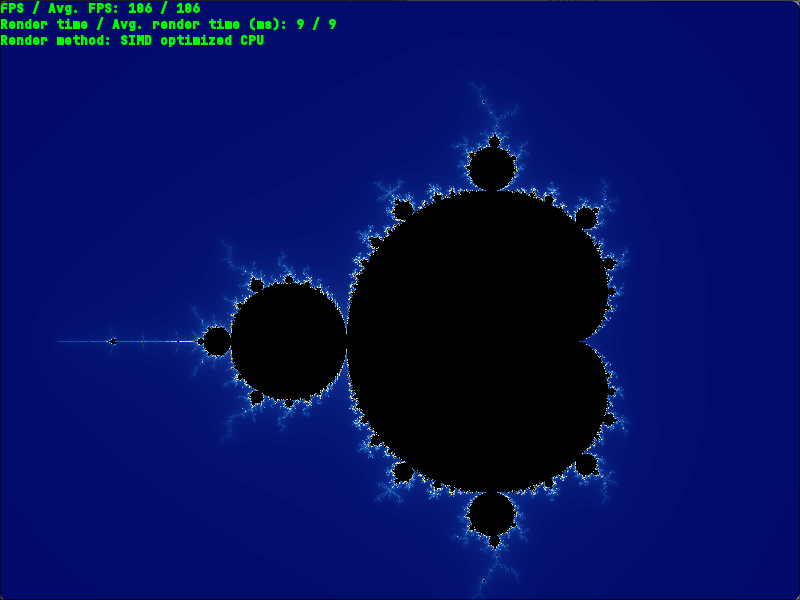
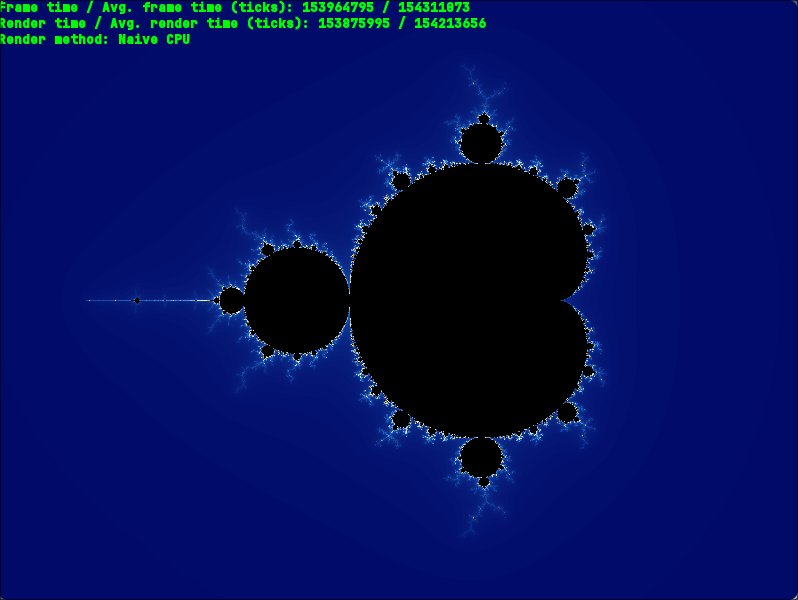
tmp readme, ProcessEvents() upd

diff --git a/src/RenderFrontends/SfmlRenderer.cpp b/src/RenderFrontends/SfmlRenderer.cpp
@@ -32,7 +32,7 @@ static ErrorCode InitShader    (sf::Shader *shader);
 static ErrorCode InitTexture   (sf::Texture *contentTexture, sf::Uint8 **texturePixels);
 static ErrorCode ProcessEvents (sf::RenderWindow *mainWindow, Camera *camera, size_t *currentBackend, size_t *currentGradient);
 
-static char *RenderStatsToString (clock_t fpsTimeValue, clock_t fpsTimeAvg, clock_t renderTimeValue, clock_t renderTimeAvg, size_t currentBackend);
+static char *RenderStatsToString (uint64_t frameTimeValue, uint64_t frameTimeAvg, uint64_t renderTimeValue, uint64_t renderTimeAvg, size_t currentBackend);
 
 #define DestroyEntities() DestroyTimers (); free (texturePixels); free (InfoTextBuffer);
 
@@ -67,11 +67,11 @@ ErrorCode SfmlRenderCycle () {
 
     size_t avgNumbers = 0;
     
-    long fpsTimeAvg         = 0;
-    long renderTimeAvg      = 0;
+    uint64_t frameTimeAvg   = 0;
+    uint64_t renderTimeAvg  = 0;
 
-    long fpsTimesSum        = 0;
-    long renderTimesSum     = 0;
+    uint64_t frameTimesSum  = 0;
+    uint64_t renderTimesSum = 0;
 
     while (mainWindow.isOpen ()) {
         StartTimer (FPS_TIMER);
@@ -83,34 +83,40 @@ ErrorCode SfmlRenderCycle () {
         
         StartTimer (RENDER_TIMER);
 
+        uint64_t renderTimeValue = 0;
+
         if (currentBackend < BACKENDS_COUNT) {
             AVAILABLE_BACKENDS [currentBackend] (texturePixels, &camera, currentGradient);
             contentTexture.update (texturePixels);
+
+            renderTimeValue = GetTimerValue (RENDER_TIMER);
+
             mainWindow.draw (contentSprite);
         } else {
             shader.setUniform ("CameraPosition", camera.position);
             shader.setUniform ("Scale", camera.scale);
             mainWindow.draw (contentSprite, &shader);
+
+            renderTimeValue = GetTimerValue (RENDER_TIMER);
         }
 
-        long renderTimeValue = GetTimerValue (RENDER_TIMER);
-        long fpsTimeValue    = GetTimerValue (FPS_TIMER);
+        uint64_t frameTimeValue = GetTimerValue (FPS_TIMER);
     
         renderTimesSum += renderTimeValue;
-        fpsTimesSum    += fpsTimeValue;
+        frameTimesSum  += frameTimeValue;
         avgNumbers++;
 
-        renderTimeAvg = renderTimesSum / (long) avgNumbers;
-        fpsTimeAvg    = fpsTimesSum    / (long) avgNumbers;
+        renderTimeAvg = renderTimesSum / (uint64_t) avgNumbers;
+        frameTimeAvg  = frameTimesSum  / (uint64_t) avgNumbers;
 
         if (avgNumbers == AVG_NUMBERS_COUNT) {
-            fprintf (stderr, "Avg. FPS: %ld\nAvg render time: %ld\n\n", 1000 / fpsTimeAvg, renderTimeAvg);
+            fprintf (stderr, "Avg. frame time (ticks): %lu\nAvg render time (ticks): %lu\n\n", frameTimeAvg, renderTimeAvg);
 
-            renderTimesSum = fpsTimesSum = 0;
+            renderTimesSum = frameTimesSum = 0;
             avgNumbers     = 0;
         }
         
-        infoText.setString (RenderStatsToString (fpsTimeValue, fpsTimeAvg, renderTimeValue, renderTimeAvg, currentBackend));
+        infoText.setString (RenderStatsToString (frameTimeValue, frameTimeAvg, renderTimeValue, renderTimeAvg, currentBackend));
         
         mainWindow.draw (infoText);
         mainWindow.display ();
@@ -121,12 +127,10 @@ ErrorCode SfmlRenderCycle () {
     return ErrorCode::NO_ERRORS;
 }
 
-static char *RenderStatsToString (clock_t fpsTimeValue, clock_t fpsTimeAvg, clock_t renderTimeValue, clock_t renderTimeAvg, size_t currentBackend) {
-    long fpsValue = fpsTimeValue > 0 ? 1000 / fpsTimeValue : 0;
-    long fpsAvg   = fpsTimeAvg   > 0 ? 1000 / fpsTimeAvg   : 0;
+static char *RenderStatsToString (uint64_t frameTimeValue, uint64_t frameTimeAvg, uint64_t renderTimeValue, uint64_t renderTimeAvg, size_t currentBackend) {
 
     snprintf (InfoTextBuffer, MAX_INFO_TEXT_LENGTH, INFO_TEXT_FORMAT_STRING, 
-              fpsValue, fpsAvg, renderTimeValue, 
+              frameTimeValue, frameTimeAvg, renderTimeValue, 
               renderTimeAvg, BACKEND_NAMES [currentBackend]);
 
     return InfoTextBuffer;
@@ -136,6 +140,25 @@ static inline ErrorCode ProcessEvents (sf::RenderWindow *mainWindow, Camera *cam
     assert (mainWindow);
     assert (camera);
 
+    #define Key(KEY_CODE) case sf::Keyboard::Scancode::KEY_CODE:
+    #define IncrementCameraField(FIELD, VALUE) camera->FIELD += (VALUE) * camera->scale; break
+    #define IncrementRenderParameter(PARAMETER, MAX_VALUE) \
+        if (*(PARAMETER) < MAX_VALUE) {                    \
+            (*(PARAMETER))++;                              \
+        } else {                                           \
+            *(PARAMETER) = 0;                              \
+        }                                                  \
+        break
+
+    #define DecrementRenderParameter(PARAMETER, MAX_VALUE) \
+        if (*(PARAMETER) > 0) {                            \
+            (*(PARAMETER))--;                              \
+        } else {                                           \
+            *(PARAMETER) = MAX_VALUE;                      \
+        }                                                  \
+        break
+
+
     for (sf::Event event = {}; mainWindow->pollEvent (event);) {
         if (event.type == sf::Event::Closed) {
             mainWindow->close ();
@@ -143,69 +166,29 @@ static inline ErrorCode ProcessEvents (sf::RenderWindow *mainWindow, Camera *cam
 
         } else if (event.type == sf::Event::KeyPressed) {
             switch (event.key.scancode) {
-                case sf::Keyboard::Scancode::Equal:
-                    if (camera->scale > MIN_SCALING)
-                        camera->scale -= SCALE_INCREMENT * camera->scale;
-                    break;
-                
-                case sf::Keyboard::Scancode::Hyphen:
-                    if (camera->scale < MAX_SCALING)
-                        camera->scale += SCALE_INCREMENT * camera->scale;
-                    break;
+                Key (Equal)  if (camera->scale > MIN_SCALING) {IncrementCameraField (scale, -SCALE_INCREMENT);} break;
+                Key (Hyphen) if (camera->scale < MAX_SCALING) {IncrementCameraField (scale,  SCALE_INCREMENT);} break;
 
-                case sf::Keyboard::Scancode::W:
-                case sf::Keyboard::Scancode::Up:
-                    camera->position.y -= Y_SPEED * camera->scale;
-                    break;
+                Key (W) Key (Up)    IncrementCameraField (position.y, -Y_SPEED);
+                Key (A) Key (Left)  IncrementCameraField (position.x, -X_SPEED);
+                Key (S) Key (Down)  IncrementCameraField (position.y,  Y_SPEED);
+                Key (D) Key (Right) IncrementCameraField (position.x,  X_SPEED);
 
-                case sf::Keyboard::Scancode::A:
-                case sf::Keyboard::Scancode::Left:
-                    camera->position.x -= X_SPEED * camera->scale;
-                    break;
-
-                case sf::Keyboard::Scancode::S:
-                case sf::Keyboard::Scancode::Down:
-                    camera->position.y += Y_SPEED * camera->scale;
-                    break;
-
-                case sf::Keyboard::Scancode::D:
-                case sf::Keyboard::Scancode::Right:
-                    camera->position.x += X_SPEED * camera->scale;
-                    break;
-
-                case sf::Keyboard::Scancode::J:
-                    if (*currentBackend > 0)
-                        (*currentBackend)--;
-                    else
-                        *currentBackend = BACKENDS_COUNT;
-                    break;
-
-                case sf::Keyboard::Scancode::K:
-                    if (*currentBackend < BACKENDS_COUNT)
-                        (*currentBackend)++;
-                    else
-                        *currentBackend = 0;
-                    break;
-
-                case sf::Keyboard::Scancode::H:
-                    if (*currentGradient > 0)
-                        (*currentGradient)--;
-                    else
-                        *currentGradient = GRADIENTS_COUNT - 1;
-                    break;
-
-                case sf::Keyboard::Scancode::L:
-                    if (*currentGradient < GRADIENTS_COUNT - 1)
-                        (*currentGradient)++;
-                    else
-                        *currentGradient = 0;
-                    break;
-
+                Key (J) DecrementRenderParameter (currentBackend,  BACKENDS_COUNT);
+                Key (K) IncrementRenderParameter (currentBackend,  BACKENDS_COUNT);
+                Key (H) DecrementRenderParameter (currentGradient, GRADIENTS_COUNT - 1);
+                Key (L) IncrementRenderParameter (currentGradient, GRADIENTS_COUNT - 1);
+ 
                 default:
                     break;
             }
         }
     }
+
+    #undef Key
+    #undef IncrementCameraField
+    #undef IncrementRenderParameter
+    #undef DecrementRenderParameter
 
     return ErrorCode::NO_ERRORS;
 }

diff --git a/src/Timer.cpp b/src/Timer.cpp
@@ -6,13 +6,14 @@
 #include "ErrorCode.hpp"
 
 static size_t    TimersCount = 0;
-static timespec *TimersArray = NULL;
+static uint64_t *TimersArray = NULL;
 
+inline uint64_t GetTime ();
 
 ErrorCode InitTimers (size_t timersCount) {
     TimersCount = timersCount;
 
-    TimersArray = (timespec *) calloc (TimersCount, sizeof (timespec));
+    TimersArray = (uint64_t *) calloc (TimersCount, sizeof (uint64_t));
     if (!TimersArray)
         return ErrorCode::ALLOCATION_ERROR;
 
@@ -31,7 +32,7 @@ ErrorCode StartTimer (size_t timerIndex) {
     assert (TimersArray);
     assert (timerIndex < TimersCount);
 
-    clock_gettime (CLOCK_PROCESS_CPUTIME_ID, &TimersArray [timerIndex]);
+    TimersArray [timerIndex] = GetTime ();
 
     return ErrorCode::NO_ERRORS;
 }
@@ -40,8 +41,13 @@ long GetTimerValue (size_t timerIndex) {
     assert (TimersArray);
     assert (timerIndex < TimersCount);
 
-    timespec endTimespec = {};
-    clock_gettime (CLOCK_PROCESS_CPUTIME_ID, &endTimespec);
+    return GetTime () - TimersArray [timerIndex];
+}
 
-    return 1000 * endTimespec.tv_sec + endTimespec.tv_nsec * 1e-6 - (1000 * TimersArray [timerIndex].tv_sec + TimersArray [timerIndex].tv_nsec * 1e-6);
+inline uint64_t GetTime () {
+    uint32_t axReg = 0, dxReg = 0;
+
+    asm volatile ("rdtsc" : "=a" (axReg), "=d" (dxReg));
+    
+    return ((uint64_t) dxReg << 32) | axReg;
 }

diff --git a/include/Config.hpp b/include/Config.hpp
@@ -19,7 +19,7 @@ const float  MIN_SCALING              = 0.001f;
 
 const size_t MAX_INFO_TEXT_LENGTH       = 256;
 const size_t INFO_TEXT_SIZE             = 12;
-const char   INFO_TEXT_FORMAT_STRING [] = "FPS / Avg. FPS: %ld / %ld\nRender time / Avg. render time (ms): %ld / %ld\nRender method: %s";
+const char   INFO_TEXT_FORMAT_STRING [] = "Frame time / Avg. frame time (ticks): %lu / %lu\nRender time / Avg. render time (ticks): %lu / %lu\nRender method: %s";
 
 static const char *BACKEND_NAMES [BACKENDS_COUNT + 1] = {"Naive CPU", "Array optimized CPU", "SIMD optimized CPU", "GPU"};
 

diff --git a/Readme.md b/Readme.md
@@ -1,7 +1,7 @@
-# Рендеринг множества Мандельброта с использованием CPU и GPU
+# Рендеринг множества Мандельброта с использованием векторных инструкций
 
 ## Введение 
-Данный проект реализует несколько из возможных способов рендера двумерных фрактальных фигур (в частности множнства Мандельброта). Целью работы является исследование влияния различных процессорных оптимизаций на скорость отрисовки изображения и сравнение эффективности рендеринга на процессоре и видеокарте.
+Данный проект реализует несколько из возможных способов рендера двумерных фрактальных фигур (в частности множества Мандельброта). Целью работы является исследование влияния SIMD оптимизаций на скорость отрисовки изображения.
 
 ## Скачивание и установка
 
@@ -22,8 +22,8 @@
 
 ## Внешний вид и горячие клавиши
 Интерфейс запущеной программы включает в себя информацию о:
-1) *Текущем* и *среднем* значениях **кадров в секунду**
-2) *Текущем* и *среднем* значениях **времени рендера одного кадра**
+1) *Текущем* и *среднем* значениях **времени рендера кадра**
+2) *Текущем* и *среднем* значениях **времени отрисовки кадра**
 3) Выбранном **методе рендера**
 
 ![Экран программы](./doc/MandelbrotScreenshot.png)
@@ -32,7 +32,7 @@
 В программе присутствует возможность динамической смены метода отрисовки и раскраски множества, а также поддерживается перемещение и изменение масштаба фигуры.
 
 > [!NOTE]
-> При отрисовке изображения на GPU смена раскраски недоступна из-за ограничений языка glsl
+> При отрисовке изображения на GPU смена раскраски недоступна для оптимизации отрисовки
 
 Ниже приведен список горячих клавиш, используемых программой:
 
@@ -49,32 +49,77 @@ K      | Следующий метод рендера
 H      | Предыдущая раскраска
 L      | Следующая раскраска
 
+## Векторные инструкции
+
+В работе широко применяются avx инструкции (advanced vector instructions), работающие со специальными регистрами (xmm, ymm, zmm), способными хранить до 512 бит (16 значений типа `float` или `uint32_t`). С их помощью возможно за существенно меньшее количество тактов выполнять арфиметические, логические и некоторые другие операции с несколькими значениями одновременно. Ниже размещено изображение, демонстрирующее работу операции сложения для двух 256-битных регистров:
+
+![zmm register](./doc/avx.png)
+*Источник: https://www.codingame.com/playgrounds/283/sse-avx-vectorization/what-is-sse-and-avx*
+
 ## Обзор методов отрисовки
 На выбор пользователю доступны 4 метода отрисовки изображения:
 
-1) **Наивный рендеринг на процессоре** - данная реализация использует двойной цикл для прохода по каждому из пикселей изображения и выбора цвета для него.
-2) **Рендеринг с оптимизациями на массивах** - метод использует массивы для отрисовки групп по 16 пикселей, что позволяет компилятору с флагом `-O3` использовать SIMD оптимизации, ускоряющие выполнение кода.
-3) **Рендеринг с использованием SIMD intrinsic** - в этом варианте функции отрисовки используются avx512 intrinsic методы, что позволяет добиться большей оптимизации, чем при неявном использовании avx512 инструкций компилятором.
-4) **Рендеринг на фидеокарте** - использует glsl шейдер, выполняющий алгоритм отрисовки, что позволяет ускорить исполнение в несколько тысяч раз.
+### Наивный рендеринг на процессоре
+Данная реализация использует двойной цикл для прохода по каждому из пикселей изображения и выбора цвета. Ниже представлен псевдокод алгоритма отрисовки:
+
+```
+for pixelY in [0, SCREEN_HEIGHT]:
+    for pixelX in [0, SCREEN_WIDTH]:
+        x0 = PixelToCoordinates (pixelX)
+        y0 = PixelToCoordinates (pixelY)
+
+        xN = x0
+        yN = y0
+        while iterations < MAX_ITERATIONS:
+            x2 = xN ^ 2
+            y2 = yN ^ 2
+            xy = xN * yN
+
+            if x2 + y2 < MAX_RADIUS ^ 2:
+                break
+
+            xN = x2 - y2 + x0
+            yN = 2 * xy  + y0
+            
+            iterations++;
+        
+        Pixels [x][y] = GetColor (iterations);
+```
+
+### Рендеринг с оптимизациями на массивах
+Данный алгоритм приближен к наивной реализации, однако, в отличие от нее, использует массивы для отрисовки групп по 16 пикселей, что позволяет компилятору с флагом `-O3` использовать SIMD оптимизации, ускоряющие выполнение кода.
+
+### Рендеринг с использованием SIMD intrinsic
+В этом варианте функции отрисовки используются avx512 intrinsic методы, позволяющие производить действия с 16 значениями при помощи одной инструкции, что обеспечивает большую оптимизацию, чем при неявном использовании avx512 инструкций компилятором.
+
+### Рендеринг на фидеокарте
+Использует glsl шейдер, выполняющий алгоритм отрисовки. Такой подход позволяет ускорить исполнение в несколько тысяч раз. В данной работе алгоритм отрисовки на GPU представлен лишь для сравнения и не подвергался тщательному анализу.
+
+## Методика измерений
+
+### Выбор способа измерения времени
+Для измерения времени рендера текстуры и отрисовки кадра применяется ассемблерная вставка, использующая инструкцию `rdtsc`. Она позволяет получить значение регистра `TSC` (time stamp counter), который содержит в себе количество тактов, прошедшее с момента включения компьютера.
+
+### Оценка погрешности
 
 ##  Измерения
-Ниже приведены таблицы с результатами средних значений FPS и времени рендера кадра для каждого из методов при разных оптимизациях. Каждое из значений измерялось 3 раза (запуска программы) с последующим усреднением результатов. При каждом из измерений масштаб изображения и положение камеры были одинаковыми. Для снятия средних значений был использован размер выборки в 300 циклов отрисовки:
+Ниже приведены таблицы с результатами средних значений FPS и времени рендера кадра (без вывода на экран) для каждого из методов при разных оптимизациях. Каждое из значений измерялось 3 раза (запуска программы) с последующим усреднением результатов. При каждом из измерений масштаб изображения и положение камеры были одинаковыми. Для снятия средних значений был использован размер выборки в 300 циклов отрисовки:
 
-### FPS
+### Время отрисовки кадра (в тиках процессора)
 
-Уровень оптимизации / Метод рендера | Naive | Array | SIMD | GPU
-------------------------------------|-------|-------|------|-----
-`-O0`                               | 3 | 1 | 6 | ~20.000
-`-O3`                               | 9 | 27 | 74 | ~20.000
+Уровень оптимизации / Метод рендера | Naive | Array | SIMD |
+------------------------------------|-------|-------|------|
+`-O0`                               | 1818348806 | 4865328005 | 1087955093 |
+`-O3`                               | 898304537 | 236214303 | 78613208 |
 
 ![FPS chart](./doc/FPS.png)
 
-### Время рендера
+### Время рендера текстуры (в тиках процессора)
 
-Уровень оптимизации / Метод рендера | Naive | Array | SIMD | GPU
-------------------------------------|-------|-------|------|-----
-`-O0`                               | 227 | 630 | 145 | ~0
-`-O3`                               | 109 | 34 | 12 | ~0
+Уровень оптимизации / Метод рендера | Naive | Array | SIMD |
+------------------------------------|-------|-------|------|
+`-O0`                               | 1818179385 | 4865328005 | 1087955093 |
+`-O3`                               | 898143274 | 233768368 | 78524386 |
 
 ![Render time chart](./doc/RenderTime.png)
 
